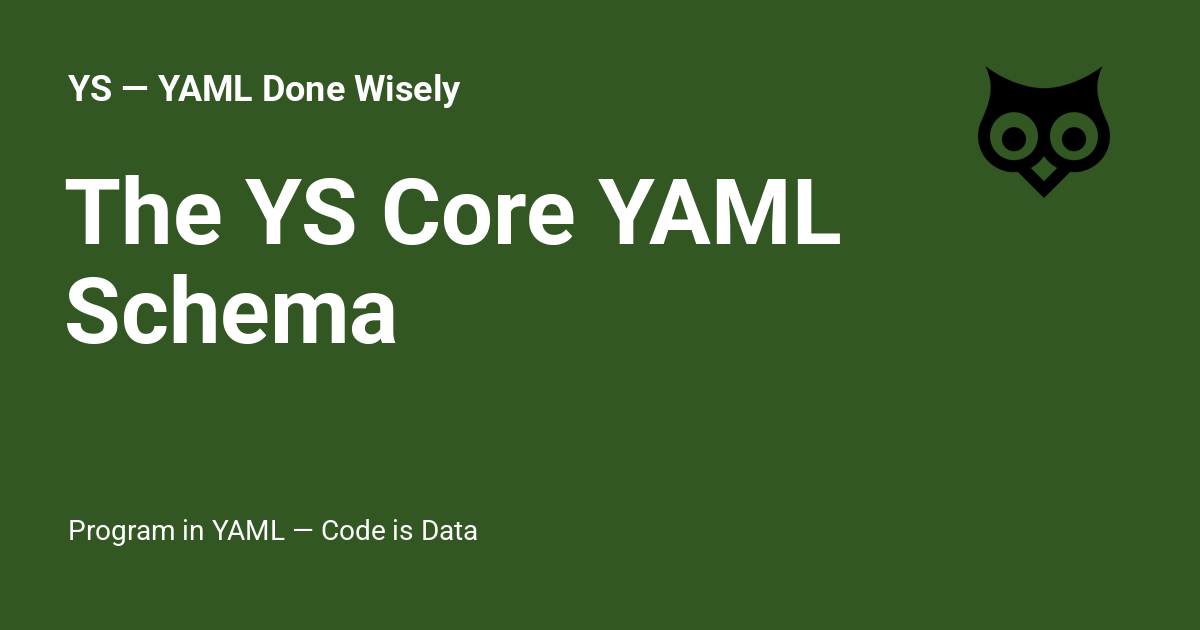
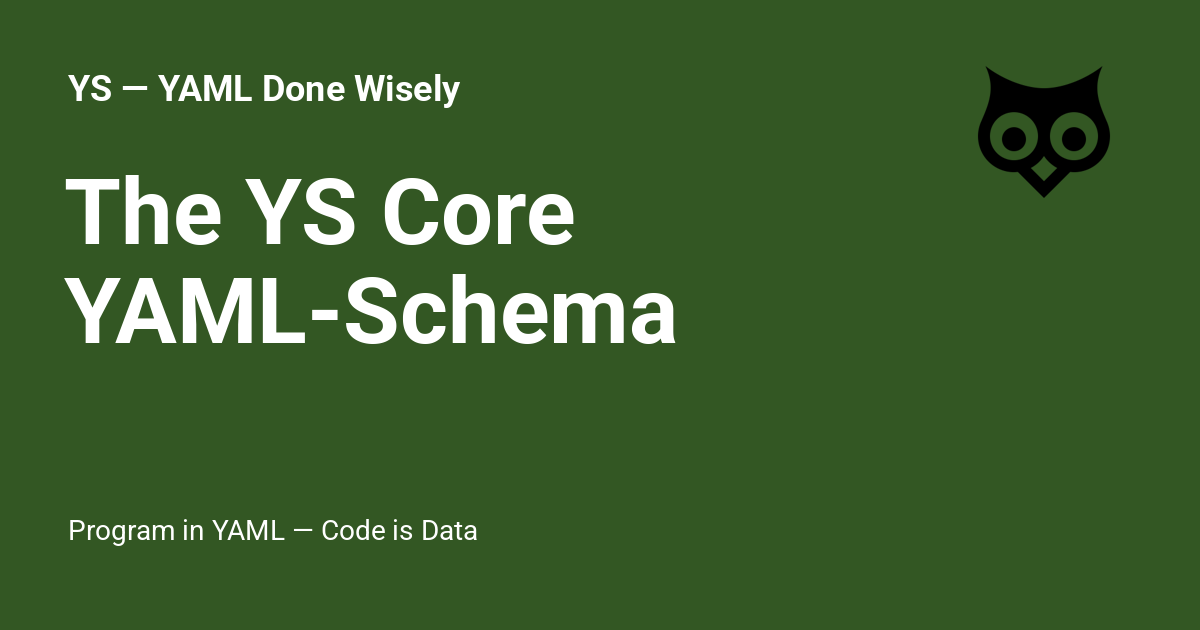
Publish Sat Jul 26 06:42:49 PM PDT 2025

Changed region(s): [[0.0308, 0.4222, 0.5858, 0.5429], [0.4933, 0.2714, 0.7092, 0.3921]]

diff --git a/blog/2025-07-26/the-ys-core-yaml-schema/index.html b/blog/2025-07-26/the-ys-core-yaml-schema/index.html
@@ -27,7 +27,7 @@
     
     
       
-        <title>The YS Core YAML Schema - YS — YAML Done Wisely</title>
+        <title>The YS Core YAML-Schema - YS — YAML Done Wisely</title>
       
     
     
@@ -125,7 +125,7 @@ f.parentNode.insertBefore(j,f);
       
         <meta  property="og:type"  content="website" >
       
-        <meta  property="og:title"  content="The YS Core YAML Schema - YS — YAML Done Wisely" >
+        <meta  property="og:title"  content="The YS Core YAML-Schema - YS — YAML Done Wisely" >
       
         <meta  property="og:description"  content="Program in YAML — Code is Data" >
       
@@ -141,7 +141,7 @@ f.parentNode.insertBefore(j,f);
       
         <meta  name="twitter:card"  content="summary_large_image" >
       
-        <meta  name="twitter:title"  content="The YS Core YAML Schema - YS — YAML Done Wisely" >
+        <meta  name="twitter:title"  content="The YS Core YAML-Schema - YS — YAML Done Wisely" >
       
         <meta  name="twitter:description"  content="Program in YAML — Code is Data" >
       
@@ -207,7 +207,7 @@ height="0" width="0" style="display:none;visibility:hidden"></iframe></noscript>
           <a href="/">
           <span class="md-ellipsis">
             
-              The YS Core YAML Schema
+              The YS Core YAML-Schema
             
           </span>
           </a>
@@ -2364,7 +2364,7 @@ height="0" width="0" style="display:none;visibility:hidden"></iframe></noscript>
         <li class="md-nav__item">
   <a href="#the-ys-core-yaml-schema" class="md-nav__link">
     <span class="md-ellipsis">
-      The YS Core YAML Schema
+      The YS Core YAML-Schema
     </span>
   </a>
   
@@ -2504,7 +2504,7 @@ height="0" width="0" style="display:none;visibility:hidden"></iframe></noscript>
   </a>
 
 
-  <h1>The YS Core YAML Schema</h1>
+  <h1>The YS Core YAML-Schema</h1>
 
 <p>The term "YAML Schema" is a bit of unfortunate history.</p>
 <p>It's not the YAML version of a JSON Schema.</p>
@@ -2534,7 +2534,7 @@ It creates the value that the program doing the loading will see.</p>
 that look like numbers.</p>
 <p>A YAML-Schema defines the patterns that unquoted scalars must match, and the
 associated tag they will be assigned.</p>
-<h2 id="the-ys-core-yaml-schema">The YS Core YAML Schema<a class="headerlink" href="#the-ys-core-yaml-schema" title="Permanent link">🔗</a></h2>
+<h2 id="the-ys-core-yaml-schema">The YS Core YAML-Schema<a class="headerlink" href="#the-ys-core-yaml-schema" title="Permanent link">🔗</a></h2>
 <p>YS tries to stick close to the YAML 1.2 spec's <a href="https://yaml.org/spec/1.2.2/#103-core-schema">Core Schema&nbsp;<img src="/image/external-link.svg"
      class="external-link"
      alt="External link">

diff --git a/blog/archive/2025/index.html b/blog/archive/2025/index.html
@@ -1984,7 +1984,7 @@ height="0" width="0" style="display:none;visibility:hidden"></iframe></noscript>
         <li class="md-nav__item">
   <a href="#the-ys-core-yaml-schema" class="md-nav__link">
     <span class="md-ellipsis">
-      The YS Core YAML Schema
+      The YS Core YAML-Schema
     </span>
   </a>
   
@@ -2622,7 +2622,7 @@ height="0" width="0" style="display:none;visibility:hidden"></iframe></noscript>
         <li class="md-nav__item">
   <a href="#the-ys-core-yaml-schema" class="md-nav__link">
     <span class="md-ellipsis">
-      The YS Core YAML Schema
+      The YS Core YAML-Schema
     </span>
   </a>
   
@@ -2893,7 +2893,7 @@ height="0" width="0" style="display:none;visibility:hidden"></iframe></noscript>
     </div>
   </header>
   <div class="md-post__content md-typeset">
-    <h2 id="the-ys-core-yaml-schema"><a class="toclink" href="../../2025-07-26/the-ys-core-yaml-schema/">The YS Core YAML Schema</a></h2>
+    <h2 id="the-ys-core-yaml-schema"><a class="toclink" href="../../2025-07-26/the-ys-core-yaml-schema/">The YS Core YAML-Schema</a></h2>
 <p>The term "YAML Schema" is a bit of unfortunate history.</p>
 <p>It's not the YAML version of a JSON Schema.</p>
 <p>In my opinion it needs to be renamed because it's not a schema in the typical

diff --git a/blog/category/summer-of-ys/index.html b/blog/category/summer-of-ys/index.html
@@ -2155,7 +2155,7 @@ height="0" width="0" style="display:none;visibility:hidden"></iframe></noscript>
         <li class="md-nav__item">
   <a href="#the-ys-core-yaml-schema" class="md-nav__link">
     <span class="md-ellipsis">
-      The YS Core YAML Schema
+      The YS Core YAML-Schema
     </span>
   </a>
   
@@ -2622,7 +2622,7 @@ height="0" width="0" style="display:none;visibility:hidden"></iframe></noscript>
         <li class="md-nav__item">
   <a href="#the-ys-core-yaml-schema" class="md-nav__link">
     <span class="md-ellipsis">
-      The YS Core YAML Schema
+      The YS Core YAML-Schema
     </span>
   </a>
   
@@ -2893,7 +2893,7 @@ height="0" width="0" style="display:none;visibility:hidden"></iframe></noscript>
     </div>
   </header>
   <div class="md-post__content md-typeset">
-    <h2 id="the-ys-core-yaml-schema"><a class="toclink" href="../../2025-07-26/the-ys-core-yaml-schema/">The YS Core YAML Schema</a></h2>
+    <h2 id="the-ys-core-yaml-schema"><a class="toclink" href="../../2025-07-26/the-ys-core-yaml-schema/">The YS Core YAML-Schema</a></h2>
 <p>The term "YAML Schema" is a bit of unfortunate history.</p>
 <p>It's not the YAML version of a JSON Schema.</p>
 <p>In my opinion it needs to be renamed because it's not a schema in the typical

diff --git a/blog/2025-07-25/the-ys-core-yaml-schema/index.html b/blog/2025-07-25/the-ys-core-yaml-schema/index.html
@@ -2880,13 +2880,13 @@ be a runtime option for YS!</p>
         
         
           
-          <a href="../../2025-07-26/the-ys-core-yaml-schema/" class="md-footer__link md-footer__link--next" aria-label="Next: The YS Core YAML Schema">
+          <a href="../../2025-07-26/the-ys-core-yaml-schema/" class="md-footer__link md-footer__link--next" aria-label="Next: The YS Core YAML-Schema">
             <div class="md-footer__title">
               <span class="md-footer__direction">
                 Next
               </span>
               <div class="md-ellipsis">
-                The YS Core YAML Schema
+                The YS Core YAML-Schema
               </div>
             </div>
             <div class="md-footer__button md-icon">

diff --git a/blog/index.html b/blog/index.html
@@ -2355,7 +2355,7 @@ height="0" width="0" style="display:none;visibility:hidden"></iframe></noscript>
         <li class="md-nav__item">
   <a href="#the-ys-core-yaml-schema" class="md-nav__link">
     <span class="md-ellipsis">
-      The YS Core YAML Schema
+      The YS Core YAML-Schema
     </span>
   </a>
   
@@ -2629,7 +2629,7 @@ height="0" width="0" style="display:none;visibility:hidden"></iframe></noscript>
     </div>
   </header>
   <div class="md-post__content md-typeset">
-    <h2 id="the-ys-core-yaml-schema"><a class="toclink" href="2025-07-26/the-ys-core-yaml-schema/">The YS Core YAML Schema</a></h2>
+    <h2 id="the-ys-core-yaml-schema"><a class="toclink" href="2025-07-26/the-ys-core-yaml-schema/">The YS Core YAML-Schema</a></h2>
 <p>The term "YAML Schema" is a bit of unfortunate history.</p>
 <p>It's not the YAML version of a JSON Schema.</p>
 <p>In my opinion it needs to be renamed because it's not a schema in the typical